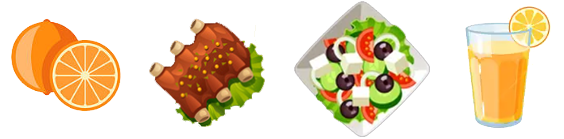
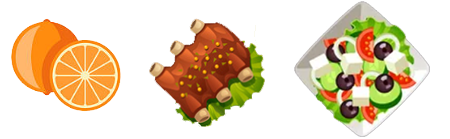
agregando detalles

diff --git a/style.css b/style.css
@@ -59,7 +59,7 @@ button {
 /* Contenedor de imágenes */
 .imagen-container {
     text-align: center;
-    padding: 0.1rem;
+    padding: 0.6rem;
     background-color: white;
     width: 100%; /* Ancho al 100% para llenar el espacio en el grid */
 }
